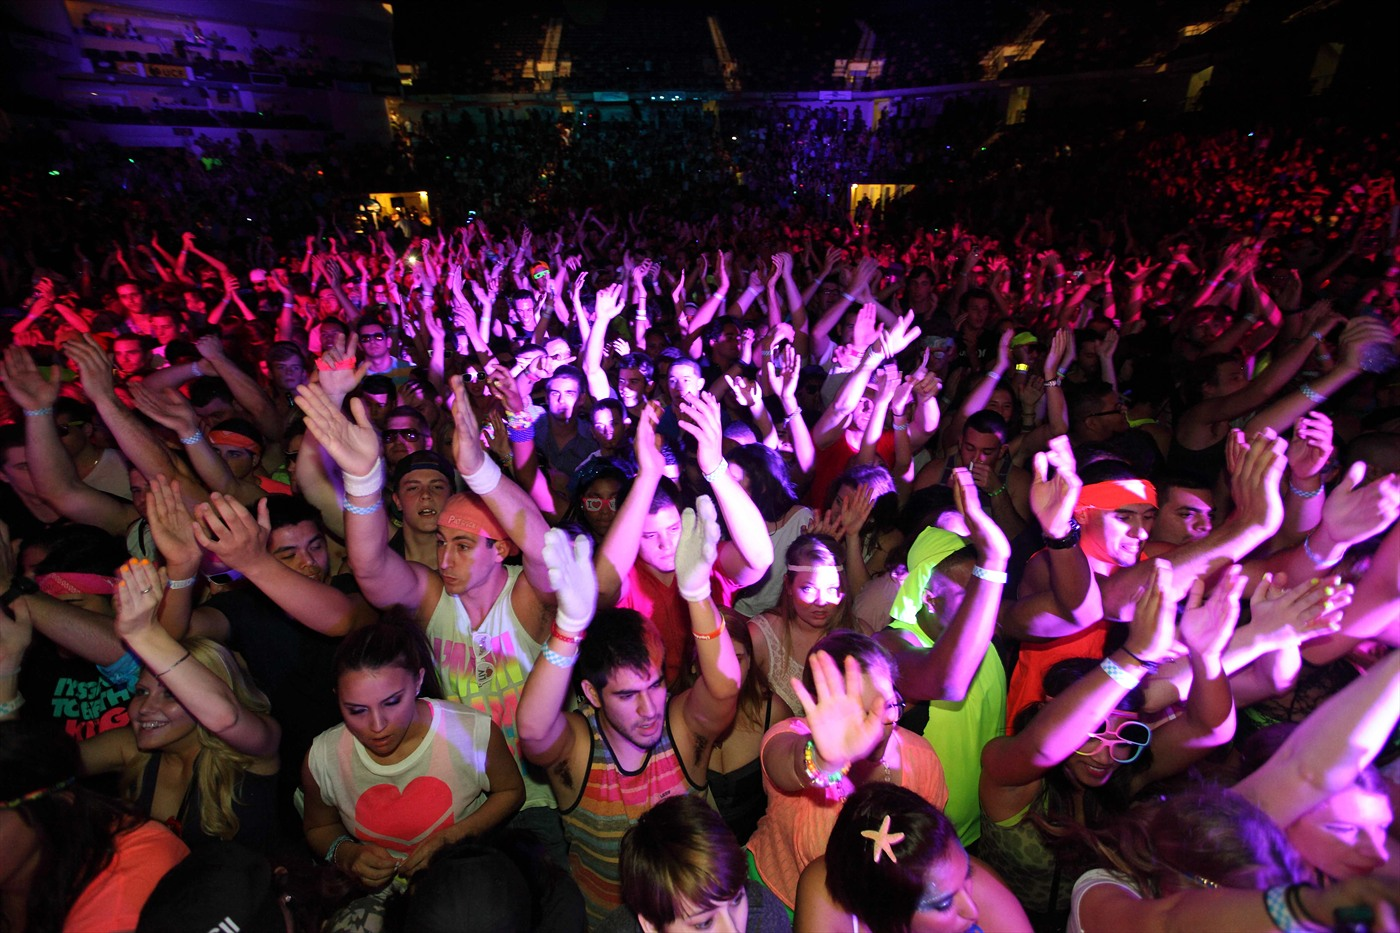
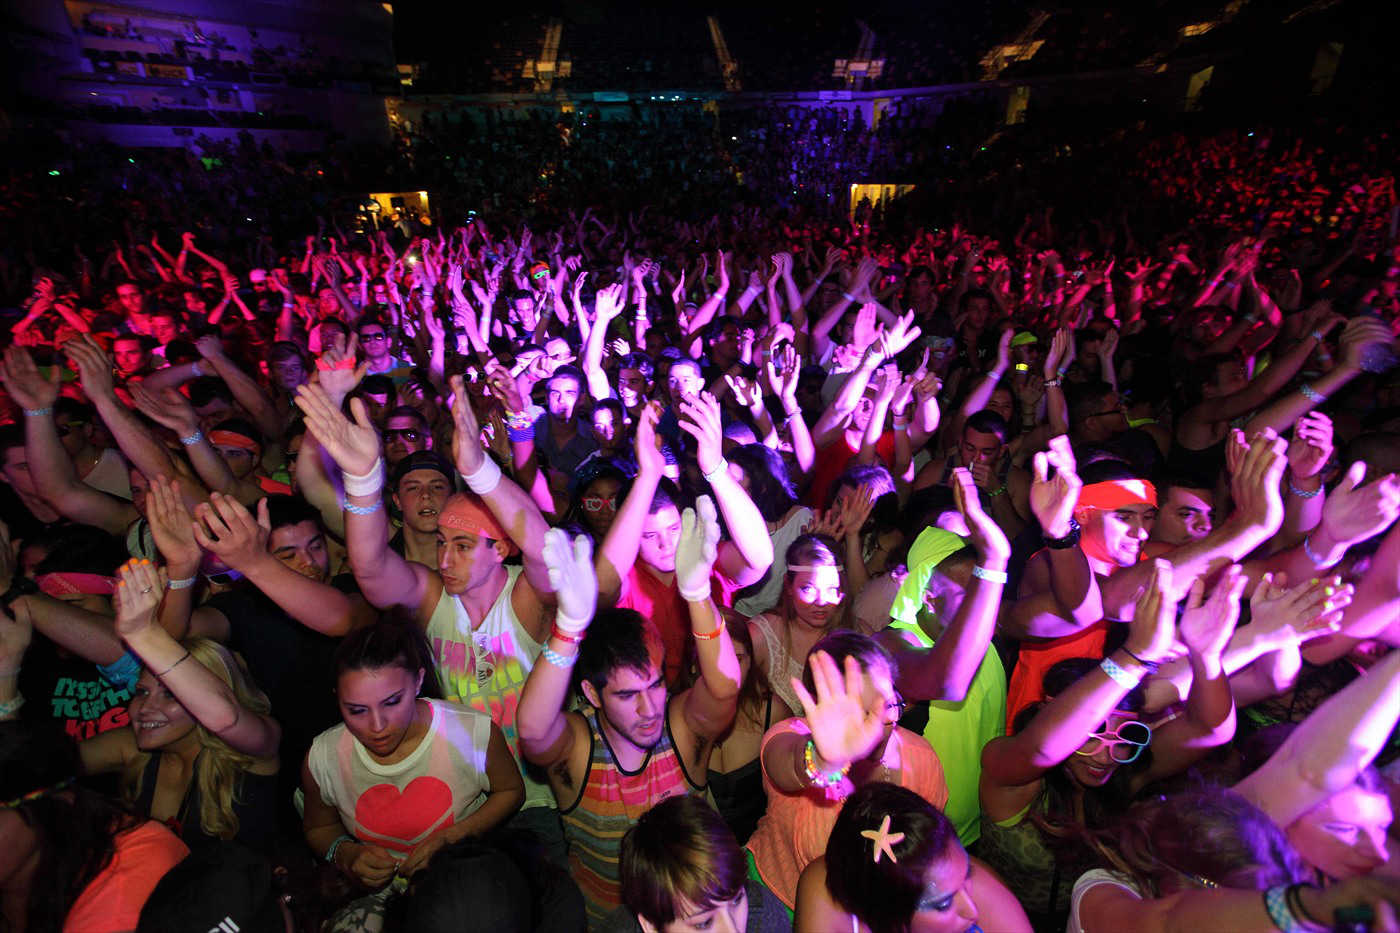
actualizacion de south y optimizacion de imagenes

Changed region(s): [[0.3686, 0.373, 0.3993, 0.4041]]

diff --git a/crowdfunding/static/css/main.css b/crowdfunding/static/css/main.css
@@ -10,7 +10,7 @@ header .menu .menu_opciones figure img{position:absolute;top:-10px;width:135px;z
 header .menu_navegacion{margin-top:1em;}
 header .menu_navegacion li{display:inline-block;vertical-align:top;}
 header .menu_navegacion li a{background-color:#fff;padding:.5em 1em;text-decoration:none}
-#bg_home{background:url("../images/crowd_party.jpg");background-position:fixed;background-size:100%}
+#bg_home{background:url("../images/crowd_party.jpg");background-position:fixed;background-size:100%;border-bottom:5px solid #fa006a}
 #contenedor_ingreso{background-color:#f7d000;background-image:url("../images/background_login.png");background-size:100% 100%;margin:auto;width:90%;}
 #contenedor_ingreso section{margin:1em}
 #contenedor_ingreso .contenedor{border-radius:20px;position:relative;}
@@ -31,7 +31,7 @@ header .menu_navegacion li a{background-color:#fff;padding:.5em 1em;text-decorat
 #login_facebook h3{color:#ffd800}
 #seccion_tipo_proyecto article{color:#fff;padding:2em 1em;text-align:center}
 #seccion_tipo_proyecto th:last-child{vertical-align:bottom}
-#slider{background-color:#00aef0;background-image:url("../images/bg_slider.png");background-position:left top;background-size:100%;background-repeat:repeat-y;margin:auto;min-height:300px;padding:1em;width:70%;}
+#slider{background-color:#00aef0;background-image:url("../images/bg_slider.jpg");background-position:left top;background-size:100%;background-repeat:repeat-y;margin:auto;min-height:300px;padding:1em;width:70%;}
 #slider h2,#slider p{text-align:center}
 #slider h2{color:#fa006a}
 #slider .globo_texto{margin:auto;max-width:500px;background:#fff;border-radius:10px;padding:1em;position:relative;}
@@ -89,8 +89,8 @@ header .menu_navegacion li a{background-color:#fff;padding:.5em 1em;text-decorat
 .fondo_celeste{background:#00b9d1}
 .fondo_naranjo{background:#ff942d}
 .fondo_rosado{background:#fa006a}
-.fondo_punteado{background:url("../images/bg_slider.png");background-size:100%}
-.fondo_rayado{background:url("../images/mainbg.png");background-size:100%}
+.fondo_punteado{background:url("../images/bg_slider.jpg");background-size:100%}
+.fondo_rayado{background:url("../images/mainbg.jpg");background-size:100%}
 .formulario{margin:auto;width:60%;}
 .formulario .fila{padding:.3em;}
 .formulario .fila label{display:inline-block;min-width:140px}

diff --git a/crowdfunding/together/migrations/0001_initial.py b/crowdfunding/together/migrations/0001_initial.py
@@ -1,0 +1,319 @@
+# -*- coding: utf-8 -*-
+from south.utils import datetime_utils as datetime
+from south.db import db
+from south.v2 import SchemaMigration
+from django.db import models
+
+
+class Migration(SchemaMigration):
+
+    def forwards(self, orm):
+        # Adding model 'TipoProyecto'
+        db.create_table(u'together_tipoproyecto', (
+            (u'id', self.gf('django.db.models.fields.AutoField')(primary_key=True)),
+            ('nombre', self.gf('django.db.models.fields.CharField')(max_length=140)),
+            ('impuesto', self.gf('django.db.models.fields.IntegerField')(null=True)),
+        ))
+        db.send_create_signal(u'together', ['TipoProyecto'])
+
+        # Adding model 'Proyecto'
+        db.create_table(u'together_proyecto', (
+            (u'id', self.gf('django.db.models.fields.AutoField')(primary_key=True)),
+            ('titulo', self.gf('django.db.models.fields.CharField')(unique=True, max_length=250)),
+            ('descripcion', self.gf('django.db.models.fields.TextField')()),
+            ('creador', self.gf('django.db.models.fields.related.ForeignKey')(related_name='creador', to=orm['auth.User'])),
+            ('fecha_creacion', self.gf('django.db.models.fields.DateField')(auto_now_add=True, blank=True)),
+            ('fecha_modificacion', self.gf('django.db.models.fields.DateField')(auto_now=True, auto_now_add=True, blank=True)),
+            ('terminado', self.gf('django.db.models.fields.BooleanField')(default=False)),
+            ('video_url', self.gf('django.db.models.fields.URLField')(max_length=500)),
+            ('duracion', self.gf('django.db.models.fields.IntegerField')()),
+            ('tipo_proyecto', self.gf('django.db.models.fields.related.ForeignKey')(to=orm['together.TipoProyecto'])),
+        ))
+        db.send_create_signal(u'together', ['Proyecto'])
+
+        # Adding M2M table for field contribuyentes on 'Proyecto'
+        m2m_table_name = db.shorten_name(u'together_proyecto_contribuyentes')
+        db.create_table(m2m_table_name, (
+            ('id', models.AutoField(verbose_name='ID', primary_key=True, auto_created=True)),
+            ('proyecto', models.ForeignKey(orm[u'together.proyecto'], null=False)),
+            ('user', models.ForeignKey(orm[u'auth.user'], null=False))
+        ))
+        db.create_unique(m2m_table_name, ['proyecto_id', 'user_id'])
+
+        # Adding model 'ImagenProyecto'
+        db.create_table(u'together_imagenproyecto', (
+            (u'id', self.gf('django.db.models.fields.AutoField')(primary_key=True)),
+            ('imagen', self.gf('django.db.models.fields.files.FileField')(max_length=100)),
+            ('proyecto', self.gf('django.db.models.fields.related.ForeignKey')(to=orm['together.Proyecto'], null=True)),
+            ('fecha_creacion', self.gf('django.db.models.fields.DateTimeField')(auto_now_add=True, blank=True)),
+        ))
+        db.send_create_signal(u'together', ['ImagenProyecto'])
+
+        # Adding model 'Moneda'
+        db.create_table(u'together_moneda', (
+            (u'id', self.gf('django.db.models.fields.AutoField')(primary_key=True)),
+            ('nombre', self.gf('django.db.models.fields.CharField')(max_length=140)),
+        ))
+        db.send_create_signal(u'together', ['Moneda'])
+
+        # Adding model 'Producto'
+        db.create_table(u'together_producto', (
+            (u'id', self.gf('django.db.models.fields.AutoField')(primary_key=True)),
+            ('nombre', self.gf('django.db.models.fields.CharField')(max_length=140)),
+            ('url', self.gf('django.db.models.fields.URLField')(max_length=500)),
+            ('precio', self.gf('django.db.models.fields.IntegerField')(default=0)),
+            ('moneda', self.gf('django.db.models.fields.related.ForeignKey')(to=orm['together.Moneda'])),
+            ('es_recomendado', self.gf('django.db.models.fields.BooleanField')(default=False)),
+            ('descripcion', self.gf('django.db.models.fields.TextField')()),
+            ('proyecto', self.gf('django.db.models.fields.related.ForeignKey')(to=orm['together.Proyecto'])),
+        ))
+        db.send_create_signal(u'together', ['Producto'])
+
+        # Adding model 'ImagenProducto'
+        db.create_table(u'together_imagenproducto', (
+            (u'id', self.gf('django.db.models.fields.AutoField')(primary_key=True)),
+            ('imagen', self.gf('django.db.models.fields.files.FileField')(max_length=100)),
+            ('producto', self.gf('django.db.models.fields.related.ForeignKey')(to=orm['together.Producto'], null=True)),
+            ('fecha_creacion', self.gf('django.db.models.fields.DateTimeField')(auto_now_add=True, blank=True)),
+        ))
+        db.send_create_signal(u'together', ['ImagenProducto'])
+
+        # Adding model 'Categoria'
+        db.create_table(u'together_categoria', (
+            (u'id', self.gf('django.db.models.fields.AutoField')(primary_key=True)),
+            ('nombre', self.gf('django.db.models.fields.CharField')(max_length=140)),
+        ))
+        db.send_create_signal(u'together', ['Categoria'])
+
+        # Adding model 'Region'
+        db.create_table(u'together_region', (
+            (u'id', self.gf('django.db.models.fields.AutoField')(primary_key=True)),
+            ('nombre', self.gf('django.db.models.fields.CharField')(max_length=140)),
+        ))
+        db.send_create_signal(u'together', ['Region'])
+
+        # Adding model 'Comuna'
+        db.create_table(u'together_comuna', (
+            (u'id', self.gf('django.db.models.fields.AutoField')(primary_key=True)),
+            ('nombre', self.gf('django.db.models.fields.CharField')(max_length=140)),
+            ('codigo', self.gf('django.db.models.fields.IntegerField')()),
+            ('region', self.gf('django.db.models.fields.related.ForeignKey')(to=orm['together.Region'])),
+        ))
+        db.send_create_signal(u'together', ['Comuna'])
+
+        # Adding model 'TipoCuenta'
+        db.create_table(u'together_tipocuenta', (
+            (u'id', self.gf('django.db.models.fields.AutoField')(primary_key=True)),
+            ('nombre', self.gf('django.db.models.fields.CharField')(max_length=140)),
+        ))
+        db.send_create_signal(u'together', ['TipoCuenta'])
+
+        # Adding model 'Banco'
+        db.create_table(u'together_banco', (
+            (u'id', self.gf('django.db.models.fields.AutoField')(primary_key=True)),
+            ('nombre', self.gf('django.db.models.fields.CharField')(max_length=140)),
+        ))
+        db.send_create_signal(u'together', ['Banco'])
+
+        # Adding model 'CuentaBancaria'
+        db.create_table(u'together_cuentabancaria', (
+            (u'id', self.gf('django.db.models.fields.AutoField')(primary_key=True)),
+            ('numero_cuenta', self.gf('django.db.models.fields.IntegerField')()),
+            ('tipo_cuenta', self.gf('django.db.models.fields.related.ForeignKey')(to=orm['together.TipoCuenta'])),
+            ('banco', self.gf('django.db.models.fields.related.ForeignKey')(to=orm['together.Banco'])),
+        ))
+        db.send_create_signal(u'together', ['CuentaBancaria'])
+
+        # Adding model 'DetalleUsuario'
+        db.create_table(u'together_detalleusuario', (
+            (u'id', self.gf('django.db.models.fields.AutoField')(primary_key=True)),
+            ('usuario', self.gf('django.db.models.fields.related.OneToOneField')(related_name='usuario', unique=True, to=orm['auth.User'])),
+            ('fb_id', self.gf('django.db.models.fields.IntegerField')(null=True, blank=True)),
+            ('rut', self.gf('django.db.models.fields.CharField')(max_length=40, unique=True, null=True, blank=True)),
+            ('comuna', self.gf('django.db.models.fields.related.ForeignKey')(to=orm['together.Comuna'], null=True, blank=True)),
+            ('sexo', self.gf('django.db.models.fields.BooleanField')(default=True)),
+            ('cuenta_bancaria', self.gf('django.db.models.fields.related.ForeignKey')(to=orm['together.CuentaBancaria'], null=True, blank=True)),
+            ('fecha_nacimiento', self.gf('django.db.models.fields.DateField')()),
+        ))
+        db.send_create_signal(u'together', ['DetalleUsuario'])
+
+
+    def backwards(self, orm):
+        # Deleting model 'TipoProyecto'
+        db.delete_table(u'together_tipoproyecto')
+
+        # Deleting model 'Proyecto'
+        db.delete_table(u'together_proyecto')
+
+        # Removing M2M table for field contribuyentes on 'Proyecto'
+        db.delete_table(db.shorten_name(u'together_proyecto_contribuyentes'))
+
+        # Deleting model 'ImagenProyecto'
+        db.delete_table(u'together_imagenproyecto')
+
+        # Deleting model 'Moneda'
+        db.delete_table(u'together_moneda')
+
+        # Deleting model 'Producto'
+        db.delete_table(u'together_producto')
+
+        # Deleting model 'ImagenProducto'
+        db.delete_table(u'together_imagenproducto')
+
+        # Deleting model 'Categoria'
+        db.delete_table(u'together_categoria')
+
+        # Deleting model 'Region'
+        db.delete_table(u'together_region')
+
+        # Deleting model 'Comuna'
+        db.delete_table(u'together_comuna')
+
+        # Deleting model 'TipoCuenta'
+        db.delete_table(u'together_tipocuenta')
+
+        # Deleting model 'Banco'
+        db.delete_table(u'together_banco')
+
+        # Deleting model 'CuentaBancaria'
+        db.delete_table(u'together_cuentabancaria')
+
+        # Deleting model 'DetalleUsuario'
+        db.delete_table(u'together_detalleusuario')
+
+
+    models = {
+        u'auth.group': {
+            'Meta': {'object_name': 'Group'},
+            u'id': ('django.db.models.fields.AutoField', [], {'primary_key': 'True'}),
+            'name': ('django.db.models.fields.CharField', [], {'unique': 'True', 'max_length': '80'}),
+            'permissions': ('django.db.models.fields.related.ManyToManyField', [], {'to': u"orm['auth.Permission']", 'symmetrical': 'False', 'blank': 'True'})
+        },
+        u'auth.permission': {
+            'Meta': {'ordering': "(u'content_type__app_label', u'content_type__model', u'codename')", 'unique_together': "((u'content_type', u'codename'),)", 'object_name': 'Permission'},
+            'codename': ('django.db.models.fields.CharField', [], {'max_length': '100'}),
+            'content_type': ('django.db.models.fields.related.ForeignKey', [], {'to': u"orm['contenttypes.ContentType']"}),
+            u'id': ('django.db.models.fields.AutoField', [], {'primary_key': 'True'}),
+            'name': ('django.db.models.fields.CharField', [], {'max_length': '50'})
+        },
+        u'auth.user': {
+            'Meta': {'object_name': 'User'},
+            'date_joined': ('django.db.models.fields.DateTimeField', [], {'default': 'datetime.datetime.now'}),
+            'email': ('django.db.models.fields.EmailField', [], {'max_length': '75', 'blank': 'True'}),
+            'first_name': ('django.db.models.fields.CharField', [], {'max_length': '30', 'blank': 'True'}),
+            'groups': ('django.db.models.fields.related.ManyToManyField', [], {'symmetrical': 'False', 'related_name': "u'user_set'", 'blank': 'True', 'to': u"orm['auth.Group']"}),
+            u'id': ('django.db.models.fields.AutoField', [], {'primary_key': 'True'}),
+            'is_active': ('django.db.models.fields.BooleanField', [], {'default': 'True'}),
+            'is_staff': ('django.db.models.fields.BooleanField', [], {'default': 'False'}),
+            'is_superuser': ('django.db.models.fields.BooleanField', [], {'default': 'False'}),
+            'last_login': ('django.db.models.fields.DateTimeField', [], {'default': 'datetime.datetime.now'}),
+            'last_name': ('django.db.models.fields.CharField', [], {'max_length': '30', 'blank': 'True'}),
+            'password': ('django.db.models.fields.CharField', [], {'max_length': '128'}),
+            'user_permissions': ('django.db.models.fields.related.ManyToManyField', [], {'symmetrical': 'False', 'related_name': "u'user_set'", 'blank': 'True', 'to': u"orm['auth.Permission']"}),
+            'username': ('django.db.models.fields.CharField', [], {'unique': 'True', 'max_length': '30'})
+        },
+        u'contenttypes.contenttype': {
+            'Meta': {'ordering': "('name',)", 'unique_together': "(('app_label', 'model'),)", 'object_name': 'ContentType', 'db_table': "'django_content_type'"},
+            'app_label': ('django.db.models.fields.CharField', [], {'max_length': '100'}),
+            u'id': ('django.db.models.fields.AutoField', [], {'primary_key': 'True'}),
+            'model': ('django.db.models.fields.CharField', [], {'max_length': '100'}),
+            'name': ('django.db.models.fields.CharField', [], {'max_length': '100'})
+        },
+        u'together.banco': {
+            'Meta': {'object_name': 'Banco'},
+            u'id': ('django.db.models.fields.AutoField', [], {'primary_key': 'True'}),
+            'nombre': ('django.db.models.fields.CharField', [], {'max_length': '140'})
+        },
+        u'together.categoria': {
+            'Meta': {'object_name': 'Categoria'},
+            u'id': ('django.db.models.fields.AutoField', [], {'primary_key': 'True'}),
+            'nombre': ('django.db.models.fields.CharField', [], {'max_length': '140'})
+        },
+        u'together.comuna': {
+            'Meta': {'object_name': 'Comuna'},
+            'codigo': ('django.db.models.fields.IntegerField', [], {}),
+            u'id': ('django.db.models.fields.AutoField', [], {'primary_key': 'True'}),
+            'nombre': ('django.db.models.fields.CharField', [], {'max_length': '140'}),
+            'region': ('django.db.models.fields.related.ForeignKey', [], {'to': u"orm['together.Region']"})
+        },
+        u'together.cuentabancaria': {
+            'Meta': {'object_name': 'CuentaBancaria'},
+            'banco': ('django.db.models.fields.related.ForeignKey', [], {'to': u"orm['together.Banco']"}),
+            u'id': ('django.db.models.fields.AutoField', [], {'primary_key': 'True'}),
+            'numero_cuenta': ('django.db.models.fields.IntegerField', [], {}),
+            'tipo_cuenta': ('django.db.models.fields.related.ForeignKey', [], {'to': u"orm['together.TipoCuenta']"})
+        },
+        u'together.detalleusuario': {
+            'Meta': {'object_name': 'DetalleUsuario'},
+            'comuna': ('django.db.models.fields.related.ForeignKey', [], {'to': u"orm['together.Comuna']", 'null': 'True', 'blank': 'True'}),
+            'cuenta_bancaria': ('django.db.models.fields.related.ForeignKey', [], {'to': u"orm['together.CuentaBancaria']", 'null': 'True', 'blank': 'True'}),
+            'fb_id': ('django.db.models.fields.IntegerField', [], {'null': 'True', 'blank': 'True'}),
+            'fecha_nacimiento': ('django.db.models.fields.DateField', [], {}),
+            u'id': ('django.db.models.fields.AutoField', [], {'primary_key': 'True'}),
+            'rut': ('django.db.models.fields.CharField', [], {'max_length': '40', 'unique': 'True', 'null': 'True', 'blank': 'True'}),
+            'sexo': ('django.db.models.fields.BooleanField', [], {'default': 'True'}),
+            'usuario': ('django.db.models.fields.related.OneToOneField', [], {'related_name': "'usuario'", 'unique': 'True', 'to': u"orm['auth.User']"})
+        },
+        u'together.imagenproducto': {
+            'Meta': {'object_name': 'ImagenProducto'},
+            'fecha_creacion': ('django.db.models.fields.DateTimeField', [], {'auto_now_add': 'True', 'blank': 'True'}),
+            u'id': ('django.db.models.fields.AutoField', [], {'primary_key': 'True'}),
+            'imagen': ('django.db.models.fields.files.FileField', [], {'max_length': '100'}),
+            'producto': ('django.db.models.fields.related.ForeignKey', [], {'to': u"orm['together.Producto']", 'null': 'True'})
+        },
+        u'together.imagenproyecto': {
+            'Meta': {'object_name': 'ImagenProyecto'},
+            'fecha_creacion': ('django.db.models.fields.DateTimeField', [], {'auto_now_add': 'True', 'blank': 'True'}),
+            u'id': ('django.db.models.fields.AutoField', [], {'primary_key': 'True'}),
+            'imagen': ('django.db.models.fields.files.FileField', [], {'max_length': '100'}),
+            'proyecto': ('django.db.models.fields.related.ForeignKey', [], {'to': u"orm['together.Proyecto']", 'null': 'True'})
+        },
+        u'together.moneda': {
+            'Meta': {'object_name': 'Moneda'},
+            u'id': ('django.db.models.fields.AutoField', [], {'primary_key': 'True'}),
+            'nombre': ('django.db.models.fields.CharField', [], {'max_length': '140'})
+        },
+        u'together.producto': {
+            'Meta': {'object_name': 'Producto'},
+            'descripcion': ('django.db.models.fields.TextField', [], {}),
+            'es_recomendado': ('django.db.models.fields.BooleanField', [], {'default': 'False'}),
+            u'id': ('django.db.models.fields.AutoField', [], {'primary_key': 'True'}),
+            'moneda': ('django.db.models.fields.related.ForeignKey', [], {'to': u"orm['together.Moneda']"}),
+            'nombre': ('django.db.models.fields.CharField', [], {'max_length': '140'}),
+            'precio': ('django.db.models.fields.IntegerField', [], {'default': '0'}),
+            'proyecto': ('django.db.models.fields.related.ForeignKey', [], {'to': u"orm['together.Proyecto']"}),
+            'url': ('django.db.models.fields.URLField', [], {'max_length': '500'})
+        },
+        u'together.proyecto': {
+            'Meta': {'object_name': 'Proyecto'},
+            'contribuyentes': ('django.db.models.fields.related.ManyToManyField', [], {'blank': 'True', 'related_name': "'contribuyentes'", 'null': 'True', 'symmetrical': 'False', 'to': u"orm['auth.User']"}),
+            'creador': ('django.db.models.fields.related.ForeignKey', [], {'related_name': "'creador'", 'to': u"orm['auth.User']"}),
+            'descripcion': ('django.db.models.fields.TextField', [], {}),
+            'duracion': ('django.db.models.fields.IntegerField', [], {}),
+            'fecha_creacion': ('django.db.models.fields.DateField', [], {'auto_now_add': 'True', 'blank': 'True'}),
+            'fecha_modificacion': ('django.db.models.fields.DateField', [], {'auto_now': 'True', 'auto_now_add': 'True', 'blank': 'True'}),
+            u'id': ('django.db.models.fields.AutoField', [], {'primary_key': 'True'}),
+            'terminado': ('django.db.models.fields.BooleanField', [], {'default': 'False'}),
+            'tipo_proyecto': ('django.db.models.fields.related.ForeignKey', [], {'to': u"orm['together.TipoProyecto']"}),
+            'titulo': ('django.db.models.fields.CharField', [], {'unique': 'True', 'max_length': '250'}),
+            'video_url': ('django.db.models.fields.URLField', [], {'max_length': '500'})
+        },
+        u'together.region': {
+            'Meta': {'object_name': 'Region'},
+            u'id': ('django.db.models.fields.AutoField', [], {'primary_key': 'True'}),
+            'nombre': ('django.db.models.fields.CharField', [], {'max_length': '140'})
+        },
+        u'together.tipocuenta': {
+            'Meta': {'object_name': 'TipoCuenta'},
+            u'id': ('django.db.models.fields.AutoField', [], {'primary_key': 'True'}),
+            'nombre': ('django.db.models.fields.CharField', [], {'max_length': '140'})
+        },
+        u'together.tipoproyecto': {
+            'Meta': {'object_name': 'TipoProyecto'},
+            u'id': ('django.db.models.fields.AutoField', [], {'primary_key': 'True'}),
+            'impuesto': ('django.db.models.fields.IntegerField', [], {'null': 'True'}),
+            'nombre': ('django.db.models.fields.CharField', [], {'max_length': '140'})
+        }
+    }
+
+    complete_apps = ['together']
